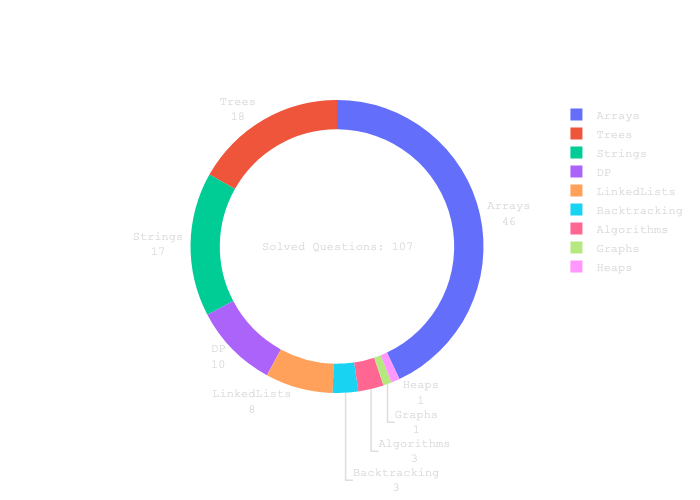
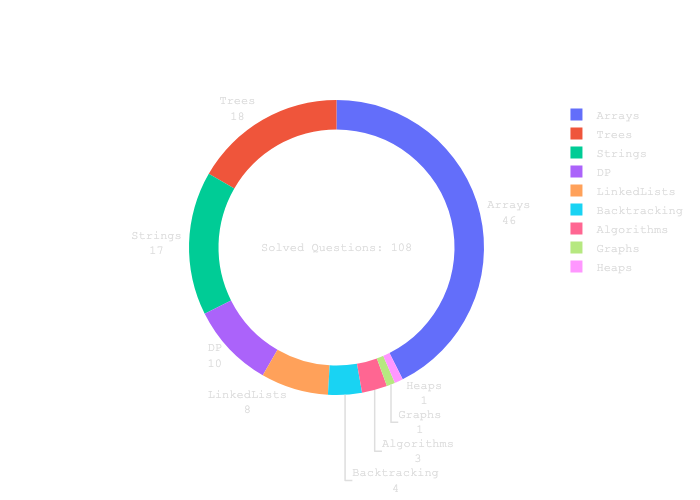
generate parentheses

diff --git a/Backtracking/generateParentheses.py b/Backtracking/generateParentheses.py
@@ -1,0 +1,20 @@
+from typing import List
+
+
+def generateParenthesis(n: int) -> List[str]:
+    res = []
+
+    def backtrack(cur, open: int, close: int):
+        if open == 0 == close:
+            res.append(cur)
+        else:
+            if open > 0:
+                backtrack(cur + "(", open - 1, close)
+            if close > 0 and close > open:
+                backtrack(cur + ")", open, close - 1)
+
+    backtrack("", n, n)
+    return res
+
+
+print(generateParenthesis(3))
